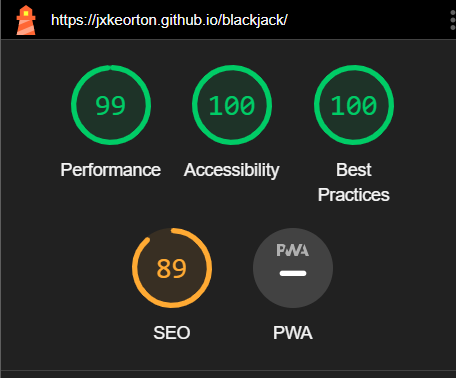
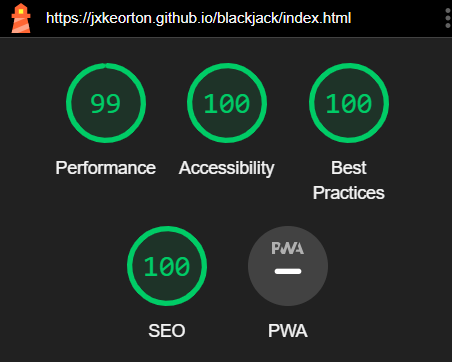
Add lighthouse results to readme

diff --git a/README.md b/README.md
@@ -212,7 +212,9 @@ No issues were found using the CSS validation.
 
 ### Lighthouse
 - After the first run i noticed i had not got a meta description, after correcting this here are the lighthouse results.
-- Also the SEO is scored 89 due to 'non crawlable links'.
+- Also the nav links were 'non crawlable links' so i added a fallback href.
+
+![lighthouse](docs/lighthouse.png)
 
 ## Deployment
 
